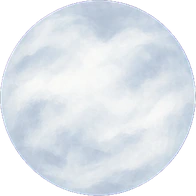
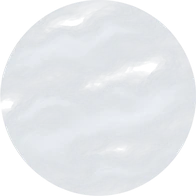
Stealth: uneven painted mist inside the rim, the animal glimpsed through thin patches, instead of a flat pale disc (two takes, the lighter wired)

diff --git a/animal_kingdom/web/static/game.css b/animal_kingdom/web/static/game.css
@@ -176,7 +176,7 @@
 .game.kit .unit .kwl { position: absolute; pointer-events: none; }
 .game.kit .unit .kwl.thorns { left: calc(-1 * var(--thorn-out, 38px)); top: calc(-1 * var(--thorn-out, 38px)); width: calc(100% + 2 * var(--thorn-out, 38px)); height: calc(100% + 2 * var(--thorn-out, 38px)); }
 .game.kit .unit:has(.rimimg.hex) .kwl.thorns { --thorn-out: 58.25px; }   /* the same thorns, each pushed out to the hexagon's edge (kwl_thorns_hex) */
-.game.kit .unit .kwl.mist { left: 18px; top: 18px; width: calc(100% - 36px); height: calc(100% - 36px); border-radius: 50%; opacity: var(--mist-o, .8); }
+.game.kit .unit .kwl.mist { left: 18px; top: 18px; width: calc(100% - 36px); height: calc(100% - 36px); border-radius: 50%; opacity: var(--mist-o, 1); }
 .game.kit .unit .boss.venom { background-image: url(/static/kit2/kwl_vboss_a.webp); } .game.kit .unit.B .boss.venom { background-image: url(/static/kit2/kwl_vboss_b.webp); } .game.kit .unit.W .boss.venom { background-image: url(/static/kit2/kwl_vboss_n.webp); }
 .game.kit .unit .hexp { left: 5px; top: 5px; width: 124px; height: 124px; inset: auto; border-radius: 0; clip-path: polygon(25% 6.7%, 75% 6.7%, 100% 50%, 75% 93.3%, 25% 93.3%, 0 50%); }   /* the portrait cut to the armour's hexagonal hole */
 .game.kit .unit .kwl.mist.hexp { left: -11px; top: -11px; width: 156px; height: 156px; clip-path: polygon(30.1% 15.6%, 69.9% 15.6%, 89.7% 50%, 69.9% 84.4%, 30.1% 84.4%, 10.3% 50%); }   /* the round mist larger, cut to the same hexagon */
